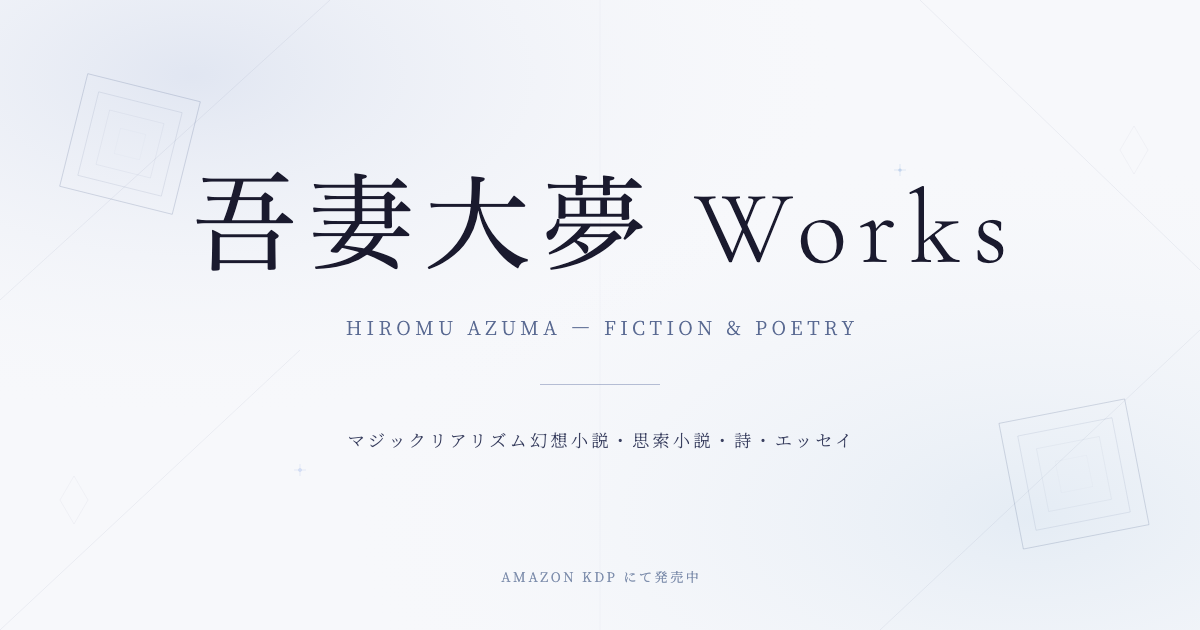
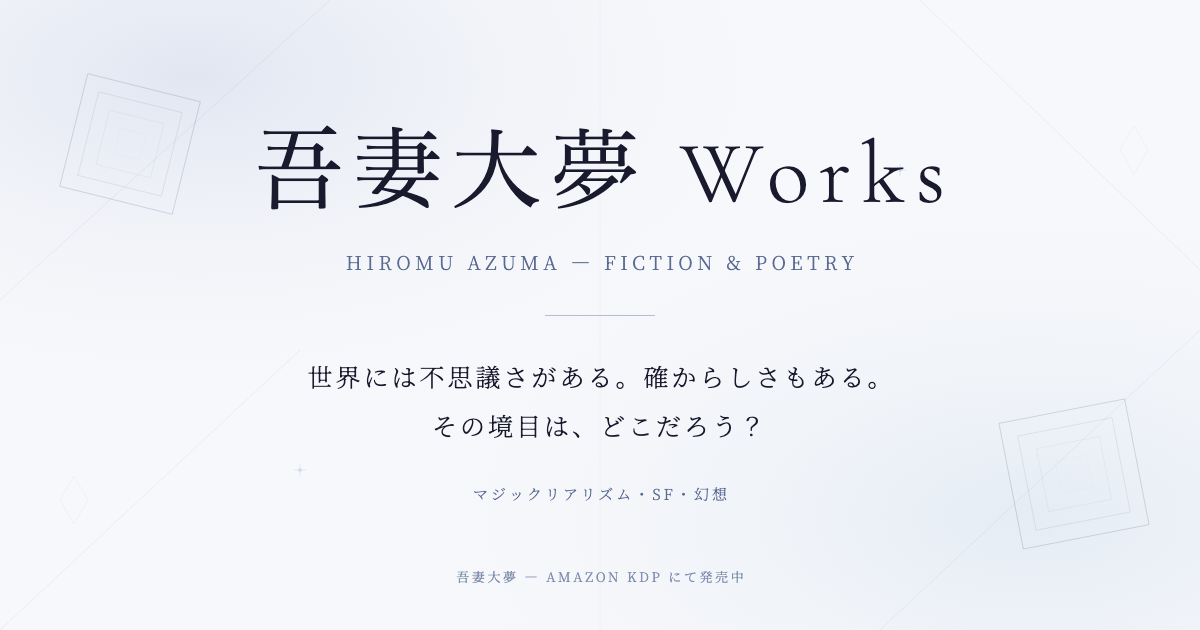
Add author intro, enlarge labels, optimize for mobile
- Masthead now opens with the author's own three-line lead and a one-line
  bio; the same lead drives og:description and the OGP image
- Section/set/tag labels were 9-10px and hard to read: now 11-13px with
  a darker slate tone and tightened tracking
- Mobile (<=640px): solo cards stack cover above full-width prose, set
  headers stack their paperback button, body text 12->13.5px, buy buttons
  44px tall, side padding 2rem->1.15rem, set grid collapses at 640 (was 560)

diff --git a/index.html b/index.html
@@ -15,7 +15,7 @@
 <meta property="og:type" content="website">
 <meta property="og:site_name" content="吾妻大夢 Works">
 <meta property="og:title" content="吾妻大夢 Works｜小説・詩・エッセイ">
-<meta property="og:description" content="吾妻大夢（Hiromu Azuma）の作品一覧。マジックリアリズム幻想小説、思索小説、詩集、エッセイをAmazon KDPにて発表。最新作は『ゆいめ』。Kindle・ペーパーバックで発売中。">
+<meta property="og:description" content="世界には不思議さがある。確からしさもある。その境目は、どこだろう？——吾妻大夢はマジックリアリズム、SF、幻想を横断するひとりの小説家です。">
 <meta property="og:url" content="https://azuma166.github.io/NovelWorks/">
 <meta property="og:image" content="https://azuma166.github.io/NovelWorks/ogp.png">
 <meta property="og:image:width" content="1200">
@@ -25,7 +25,7 @@
 
 <meta name="twitter:card" content="summary_large_image">
 <meta name="twitter:title" content="吾妻大夢 Works｜小説・詩・エッセイ">
-<meta name="twitter:description" content="マジックリアリズム幻想小説、思索小説、詩、エッセイ。Amazon KDPにて発売中。">
+<meta name="twitter:description" content="世界には不思議さがある。確からしさもある。その境目は、どこだろう？——吾妻大夢はマジックリアリズム、SF、幻想を横断するひとりの小説家です。">
 <meta name="twitter:image" content="https://azuma166.github.io/NovelWorks/ogp.png">
 
 <script type="application/ld+json">
@@ -59,6 +59,8 @@
 <style>
 *, *::before, *::after { box-sizing:border-box; margin:0; padding:0; }
 
+html { -webkit-text-size-adjust:100%; }
+
 body {
   font-family:'Noto Serif JP',serif;
   color:#1a1a2e;
@@ -88,21 +90,27 @@ body {
 .wh-title { font-family:'Cormorant Garamond',serif; font-size:2.6rem; font-weight:300; letter-spacing:0.12em; margin:0 0 0.4rem; color:#1a1a2e; }
 .wh-sub { font-size:11px; letter-spacing:0.2em; color:#7080a0; font-weight:300; }
 
+.wh-lead { margin:2.8rem auto 0; }
+.wh-lead-p { max-width:24em; margin:0 auto; font-size:14px; line-height:2.7; color:#1a1a2e; font-weight:300; letter-spacing:0.07em; white-space:pre-line; }
+.wh-rule { width:24px; height:0.5px; background:rgba(60,80,140,0.3); margin:2rem auto; }
+.wh-bio { max-width:38em; margin:0 auto; font-size:12px; line-height:2.2; color:#3a4060; font-weight:300; letter-spacing:0.04em; }
+.nb { white-space:nowrap; }
+
 .section { margin-bottom:3rem; }
-.section-label { font-size:10px; letter-spacing:0.22em; color:#7080a0; padding-bottom:0.6rem; border-bottom:0.5px solid rgba(60,80,140,0.15); margin-bottom:1.5rem; }
+.section-label { font-size:13px; letter-spacing:0.18em; color:#5a6a92; padding-bottom:0.6rem; border-bottom:0.5px solid rgba(60,80,140,0.15); margin-bottom:1.5rem; }
 
 .set-wrap { border:0.5px solid rgba(60,80,140,0.2); margin-bottom:2rem; background:rgba(247,248,251,0.88); }
 .set-header { padding:0.9rem 1.4rem; background:rgba(230,234,245,0.6); border-bottom:0.5px solid rgba(60,80,140,0.15); }
 .set-header-top { display:flex; justify-content:space-between; align-items:flex-start; gap:1rem; }
-.set-label { font-size:10px; letter-spacing:0.18em; color:#7080a0; margin-bottom:0.5rem; }
+.set-label { font-size:12px; letter-spacing:0.16em; color:#5a6a92; margin-bottom:0.5rem; }
 .set-abstract { font-size:12px; line-height:1.9; color:#3a4060; font-weight:300; flex:1; }
 .set-pb-block { flex-shrink:0; display:flex; flex-direction:column; align-items:flex-end; gap:6px; }
-.set-pb-label { font-size:9px; letter-spacing:0.16em; color:#7080a0; text-align:right; }
+.set-pb-label { font-size:11px; letter-spacing:0.14em; color:#5a6a92; text-align:right; }
 .pb-btn { display:inline-block; font-size:11px; letter-spacing:0.1em; color:#f7f8fb; text-decoration:none; border:0.5px solid #1a1a2e; padding:7px 16px; border-radius:2px; background:#1a1a2e; transition:all 0.2s; font-family:'Noto Serif JP',serif; white-space:nowrap; }
 .pb-btn:hover { background:#f7f8fb; color:#1a1a2e; }
 
 .set-grid { display:grid; grid-template-columns:1fr 1fr; }
-@media(max-width:560px){ .set-grid { grid-template-columns:1fr; } .set-card:first-child { border-right:none; border-bottom:0.5px solid rgba(60,80,140,0.15); } }
+@media(max-width:640px){ .set-grid { grid-template-columns:1fr; } .set-card:first-child { border-right:none; border-bottom:0.5px solid rgba(60,80,140,0.15); } }
 .set-card { padding:1.4rem; display:flex; flex-direction:column; gap:0.65rem; transition:background 0.2s; }
 .set-card:first-child { border-right:0.5px solid rgba(60,80,140,0.15); }
 .set-card:hover { background:rgba(220,225,240,0.3); }
@@ -120,7 +128,7 @@ body {
 .card-inner { display:flex; gap:0.9rem; }
 .card-body { display:flex; flex-direction:column; gap:0.5rem; flex:1; }
 
-.c-tag { font-size:10px; letter-spacing:0.16em; color:#7080a0; font-weight:300; }
+.c-tag { font-size:11.5px; letter-spacing:0.14em; color:#5a6a92; font-weight:300; }
 .c-title { font-family:'Cormorant Garamond',serif; font-size:1.35rem; font-weight:400; letter-spacing:0.04em; line-height:1.3; color:#1a1a2e; }
 .c-div { width:18px; height:0.5px; background:rgba(60,80,140,0.3); }
 .c-desc { font-size:12px; line-height:2; color:#3a4060; font-weight:300; white-space:pre-line; flex:1; }
@@ -134,8 +142,8 @@ body {
 
 .new-wrap { border:0.5px solid rgba(60,80,140,0.42); box-shadow:0 1px 14px rgba(60,80,140,0.08); }
 .new-head { display:flex; align-items:center; gap:0.9rem; padding:0.75rem 1.4rem; background:rgba(230,234,245,0.6); border-bottom:0.5px solid rgba(60,80,140,0.15); }
-.new-badge { display:inline-block; font-family:'Cormorant Garamond',serif; font-size:10px; letter-spacing:0.26em; color:#f7f8fb; background:#1a1a2e; padding:3px 9px 3px 11px; border-radius:2px; }
-.new-date { font-size:10px; letter-spacing:0.16em; color:#7080a0; }
+.new-badge { display:inline-block; font-family:'Cormorant Garamond',serif; font-size:12px; letter-spacing:0.24em; color:#f7f8fb; background:#1a1a2e; padding:3px 9px 3px 11px; border-radius:2px; }
+.new-date { font-size:12px; letter-spacing:0.14em; color:#5a6a92; }
 
 .wf { text-align:center; margin-top:3rem; font-size:10px; letter-spacing:0.14em; color:#7080a0; }
 
@@ -145,6 +153,47 @@ body {
 .drift { animation:slowdrift 14s ease-in-out infinite; }
 .drift2 { animation:slowdrift2 18s ease-in-out infinite; }
 .glint { animation:pulse 4s ease-in-out infinite; }
+
+/* ---- スマートフォン最適化 ---- */
+@media (max-width:640px) {
+  .container { padding:2.2rem 1.15rem 3.5rem; }
+
+  .wh { margin-bottom:2.6rem; padding-bottom:1.7rem; }
+  .wh-title { font-size:2.1rem; letter-spacing:0.08em; }
+  .wh-sub { font-size:10.5px; letter-spacing:0.15em; }
+  .wh-lead { margin-top:2.1rem; }
+  .wh-lead-p { font-size:15px; line-height:2.35; letter-spacing:0.04em; }
+  .wh-rule { margin:1.7rem auto; }
+  .wh-bio { font-size:13px; line-height:2.05; }
+
+  .section { margin-bottom:2.5rem; }
+  .section-label { font-size:12px; letter-spacing:0.15em; margin-bottom:1.2rem; }
+  .set-wrap, .solo-wrap { margin-bottom:1.4rem; }
+
+  /* セット見出し: 概要とペーパーバックボタンを縦に */
+  .set-header { padding:1rem 1.15rem; }
+  .set-header-top { flex-direction:column; align-items:stretch; gap:1rem; }
+  .set-pb-block { align-items:flex-start; }
+  .set-pb-label { text-align:left; }
+  .set-abstract { font-size:13px; line-height:1.95; }
+
+  /* 単独作品: 表紙を上に置き、本文を全幅で読ませる */
+  .solo-card { flex-direction:column; gap:1.1rem; padding:1.2rem; }
+  .cover-wrap img { width:96px; }
+  .set-card { padding:1.2rem; }
+  .cover-sm img { width:58px; }
+  .new-head { padding:0.85rem 1.15rem; }
+
+  .c-title { font-size:1.5rem; }
+  .c-desc { font-size:13.5px; line-height:2.05; }
+  .toc { font-size:12px; line-height:2.1; }
+
+  /* タップしやすいボタン（高さ44px以上） */
+  .c-links { gap:8px; margin-top:0.6rem; }
+  .c-link, .pb-btn { font-size:13px; padding:12px 22px; letter-spacing:0.08em; }
+
+  .wf { font-size:10.5px; line-height:1.9; margin-top:2.2rem; }
+}
 </style>
 </head>
 <body>
@@ -257,6 +306,13 @@ body {
   <div class="wh">
     <h1 class="wh-title">吾妻大夢 Works</h1>
     <p class="wh-sub">Hiromu Azuma — Fiction & Poetry</p>
+    <div class="wh-lead">
+      <p class="wh-lead-p">世界には不思議さがある。
+確からしさもある。
+その境目は、どこだろう？</p>
+      <div class="wh-rule"></div>
+      <p class="wh-bio">吾妻大夢は<span class="nb">マジックリアリズム、SF、幻想</span>を<span class="nb">横断するひとりの小説家です。</span></p>
+    </div>
   </div>
 
   <div class="section">
